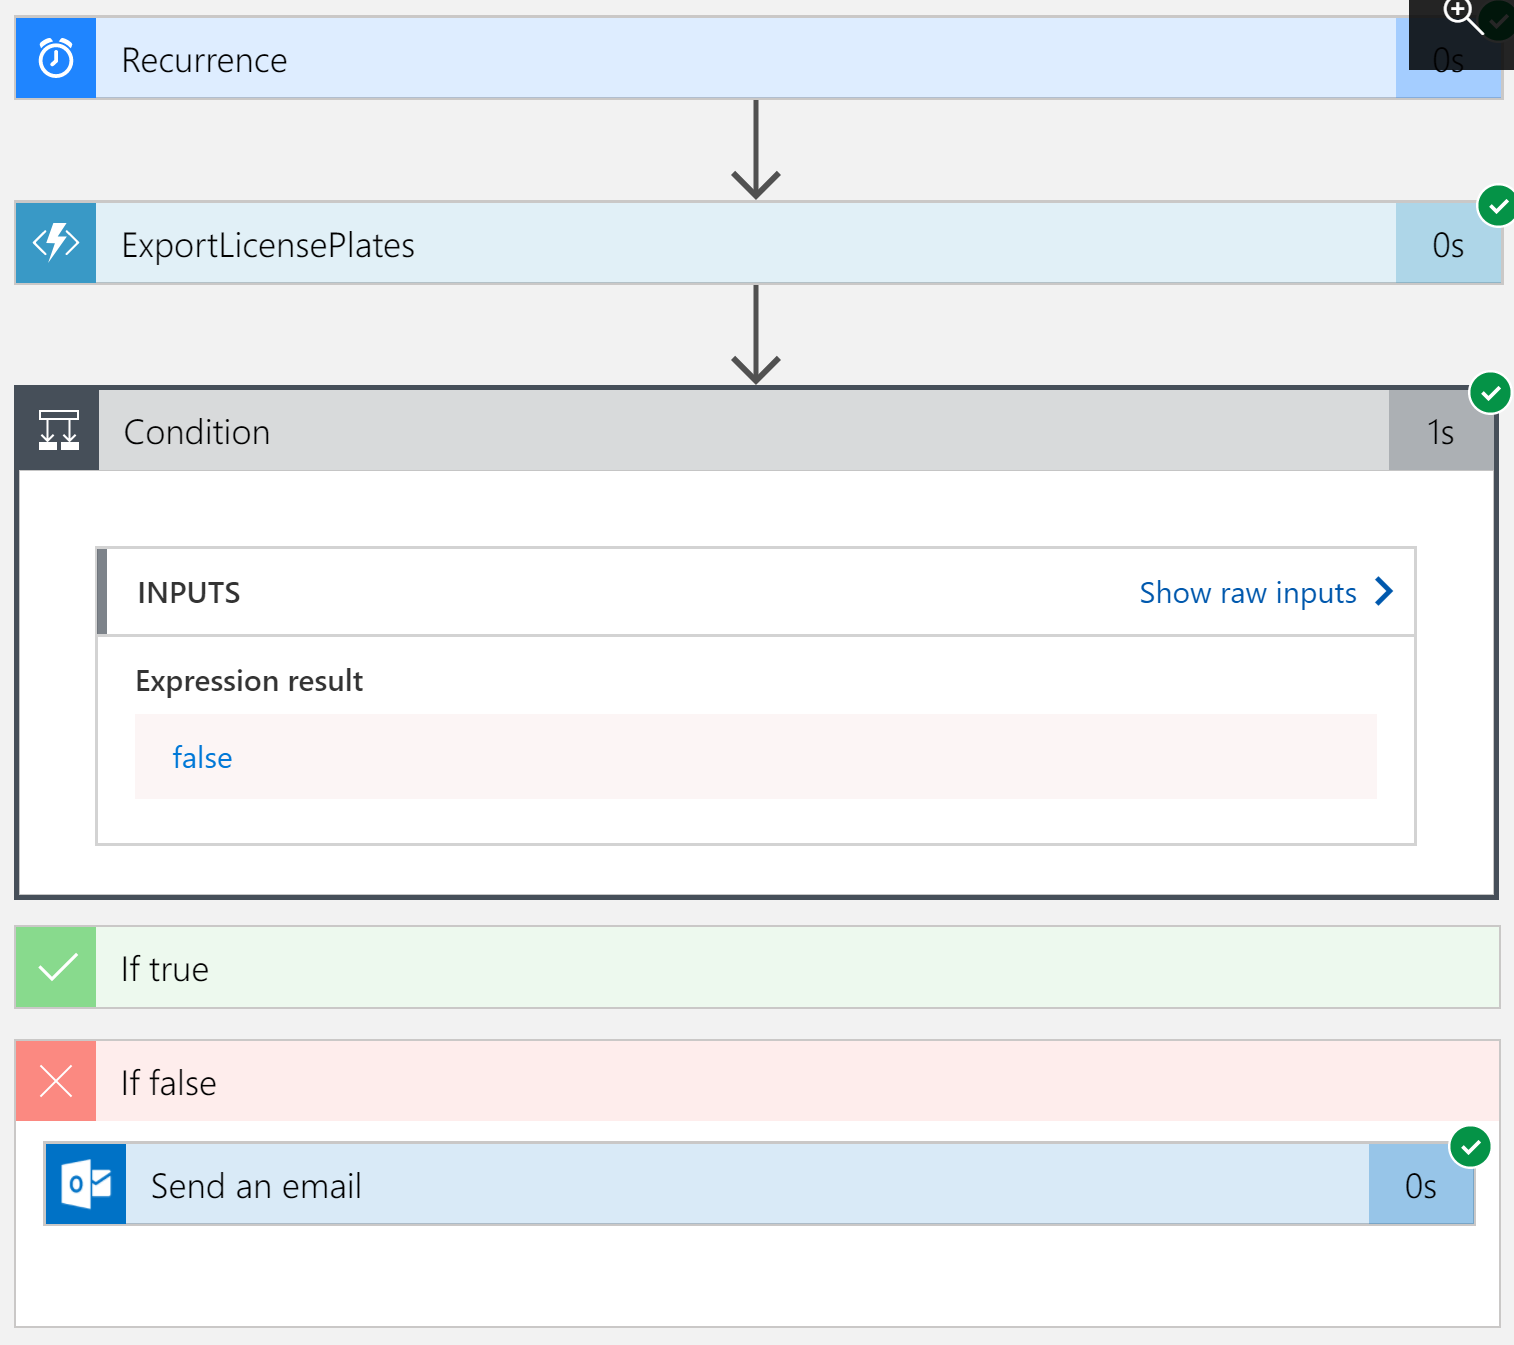
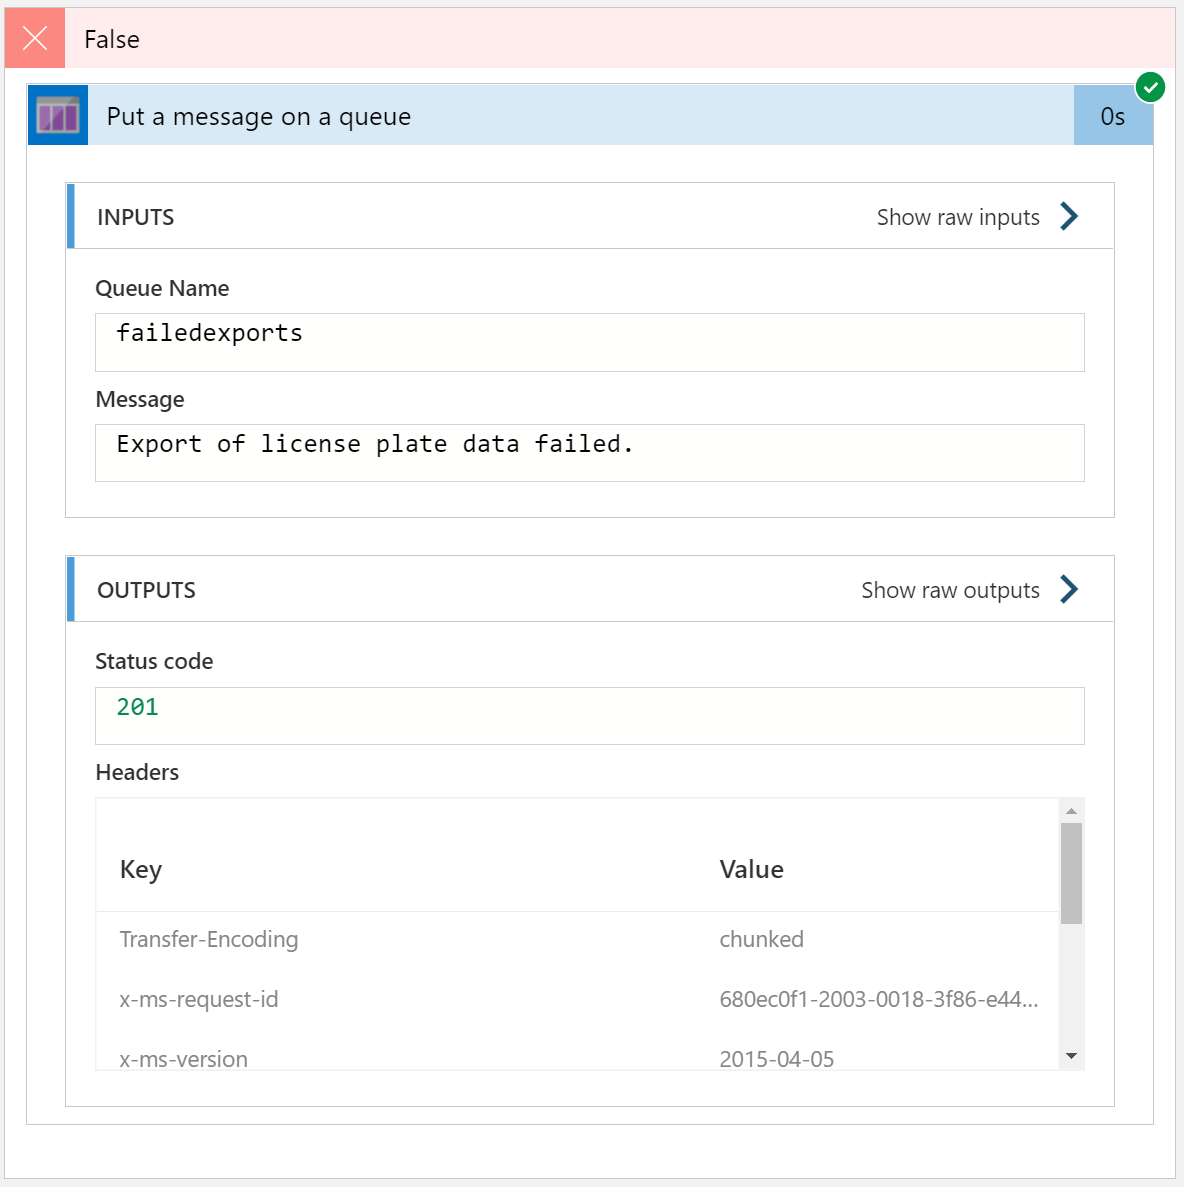
Doc updates; suppress exception in Function.

diff --git a/Hands-on-lab/starter/TollBooth/TollBooth/FindLicensePlateText.cs b/Hands-on-lab/starter/TollBooth/TollBooth/FindLicensePlateText.cs
@@ -50,10 +50,18 @@ namespace TollBooth
             var resiliencyStrategy = DefineAndRetrieveResiliencyStrategy();
 
             // Configure the HttpClient request headers.
-            _client.DefaultRequestHeaders.Clear();
-            _client.DefaultRequestHeaders.Accept.Clear();
-            _client.DefaultRequestHeaders.Add("Ocp-Apim-Subscription-Key", apiKey);
-            _client.DefaultRequestHeaders.Accept.Add(new MediaTypeWithQualityHeaderValue("application/json"));
+            try
+            {
+                _client.DefaultRequestHeaders.Clear();
+                _client.DefaultRequestHeaders.Accept.Clear();
+                _client.DefaultRequestHeaders.Add("Ocp-Apim-Subscription-Key", apiKey);
+                _client.DefaultRequestHeaders.Accept.Add(new MediaTypeWithQualityHeaderValue("application/json"));
+            }
+            catch (System.ArgumentException)
+            {
+                // Non-fatal, most likely threading issue
+                _log.LogWarning("Tried to add duplicate header to HTTP Client.");
+            }
 
             // Assemble the URI for the REST API Call.
             var uri = uriBase + "?" + requestParameters;

diff --git a/Hands-on-lab/HOL step-by-step - Serverless architecture.md b/Hands-on-lab/HOL step-by-step - Serverless architecture.md
@@ -126,8 +126,8 @@ In this exercise, you will provision an Azure Blob Storage Account using the Hot
 |                                            |                                                                                           |
 | ------------------------------------------ | :---------------------------------------------------------------------------------------: |
 | **Description**                            | **Links**                                                                                 |
-| Creating a storage account (blob hot tier) | https://docs.microsoft.com/azure/storage/common/storage-create-storage-account            |
-| Creating a function app                    | https://docs.microsoft.com/azure/azure-functions/functions-create-function-app-portal     |
+| Creating a Storage Account (blob hot tier) | https://docs.microsoft.com/azure/storage/common/storage-create-storage-account            |
+| Creating a Function app                    | https://docs.microsoft.com/azure/azure-functions/functions-create-function-app-portal     |
 | Concepts in Event Grid                     | https://docs.microsoft.com/azure/event-grid/concepts                                      |
 | Creating an Azure Cosmos DB account        | https://docs.microsoft.com/azure/cosmos-db/manage-account                                 |
 
@@ -163,13 +163,17 @@ In this exercise, you will provision an Azure Blob Storage Account using the Hot
 
 6. Paste the value into a text editor, such as Notepad, for later reference.
 
-7. Select **Containers** under **Blob Service** in the menu. Then select the **+ Container** button to add a new container. In the **Name** field, enter **images**, select **Private (no anonymous access)** for the public access level, then select **OK** to save.
+7. Select **Containers** under **Blob Service** in the left menu. Then select the **+ Container** button to add a new container. In the **Name** field, enter **images**, select **Private (no anonymous access)** for the public access level, then select **OK** to save.
 
     ![In the Storage blade, under Settings, Containers is selected. In the Containers blade, the + (add icon) Container button is selected. Below, the Name field displays images, and the Public access level is set to Private (no anonymous access).](media/storage-new-container-images.png 'Storage and Containers blade')
 
 8. Repeat these steps to create a container named **export**.
 
     ![In the Storage blade, under Settings, Containers is selected. In the Containers blade, the + (add icon) Container button is selected. Below, the Name field displays export, and the Public access level is set to Private (no anonymous access).](media/new-container-export.png 'Storage and Containers blade')
+
+9. Select **Queues** under **Queue service** in the left menu. Then select the **+ Queue** button to add a new queue. In the **Queue name** field, enter **failedexports**, then select **OK** to create.
+
+    ![In the Storage blade, under Settings, Containers is selected. In the Containers blade, the + (add icon) Container button is selected. Below, the Name field displays export, and the Public access level is set to Private (no anonymous access).](media/setup-queue.png 'Storage and Containers blade')
 
 ### Task 2: Provision the Function Apps
 
@@ -1091,55 +1095,57 @@ In this exercise, you create a new Azure Logic App for your data export workflow
 
     ![Under Azure Functions, in the search results list, Azure Functions (TollBoothFunctionApp) is selected.](media/logic-app-function-app-action.png 'Logic App Designer Azure Functions section')
 
-11. Select the **ExportLicensePlates** function from the list.
+11. Select the **ExportLicensePlates** Function from the list.
 
     ![Under Azure Functions, under Actions (2), Azure Functions (ExportLicensePlates) is selected.](media/logic-app-select-export-function.png 'Logic App Designer Azure Functions section')
 
-12. This function does not require any parameters that need to be sent when it gets called. Select **+ New step**, then search for **condition**. Select the **Condition** Control option from the Actions search result.
+12. This Function does not require any parameters. Select **+ New step**, then search for **condition**. Select the **Condition** Control option from the Actions search result.
 
     ![In the logic app designer, in the ExportLicensePlates section, the parameter field is left blank. In the Choose an action box, condition is entered as the search term and the Condition Control item is selected from the Actions list.](media/logicapp-add-condition.png 'Logic App Designer ExportLicensePlates section')
 
 13. For the **value** field, select the **Status code** parameter. Make sure the operator is set to **is equal to**, then enter **200** in the second value field.
 
-    > **Note**: This evaluates the status code returned from the ExportLicensePlates function, which will return a 200 code when license plates are found and exported. Otherwise, it sends a 204 (NoContent) status code when no license plates were discovered that need to be exported. We will conditionally send an email if any response other than 200 is returned.
+    > **Note**: This evaluates the HTTP status code returned from the ExportLicensePlates Function, which will return a 200 (OK) code when license plates are found and exported. Otherwise, it sends a 204 (NoContent) status code when no license plates were discovered that need to be exported. We will conditionally put a message on a queue if any response other than 200 is returned.
 
     ![The first Condition field displays Status code. The second, drop-down menu field displays is equal to, and the third field is set to 200.](media/logicapp-condition.png 'Condition fields')
 
-14. We will ignore the If true condition because we don't want to perform an action if the license plates are successfully exported. Select **Add an action** within the **If false** condition block.
+14. We will ignore the True condition because we don't want to perform an action if the license plates are successfully exported. Select **Add an action** within the **False** condition block.
 
     ![Under the Conditions field is an If true (green checkmark) section, and an if false (red x) section. In the If false section, the Add an action button is selected.](media/logicapp-condition-false-add.png 'Logic App Designer Condition fields if true/false ')
 
-15. Enter **Send an email** in the filter box, then select the **Send an email (V2)** action for Office 365 Outlook.
+15. Enter **Azure Queues** in the filter box, then select the **Put a message on a queue** action.
 
-    ![In the Choose an action box, send an email is entered as the search term. From the Actions list, Office 365 Outlook (end an email (V2) item is selected.](media/logicapp-send-email.png 'Office 365 Outlook Actions list')
+    ![In the Choose an action box, Azure Queues is entered as the search term. From the Actions list, Put a message on a queue is selected.](media/logicapp-send-message.png 'Azure Queues put a message on queue')
 
-16. Select **Sign in** and sign into your Office 365 Outlook account.
+16. In the Put a message on a queue Action, provide the following values:
 
-    ![In the Office 365 Outlook - Send an email box, the Sign in button is selected.](media/image93.png 'Office 365 Outlook Sign in prompt')
+    a. For **Connection Name** enter **FailedExportQueueConnection**.
 
-17. In the Send an email form, provide the following values:
+    b. For **Storage Account** select the Storage Account from Exercise 1, Task 1 in which you created the **failedexports** queue.
 
-    a. Enter your email address in the **To** box.
+    c. Select **Create**.
 
-    b. Provide a **Subject**, such as **Toll Booth license plate export failed**.
+    ![In the Put a message on a queue Action, fields are set to the previously defined values.](media/logic-app-storage-connection.png 'Logic App Designer , Storage Connection fields')
 
-    c. Enter a message into the **Body**, and select the **Status code** from the ExportLicensePlates function so that it is added to the email body.
+17. The Action will change once connected. For **Queue Name** select **failedexports**. Enter an appropriate message into the **Message field**
 
-    ![In the Send an email box, fields are set to the previously defined values.](media/logicapp-send-email-form.png 'Logic App Designer , Send an email fields')
+    ![In the Put a message on a queue Action, fields are set to the previously defined values.](media/logic-app-message-queue-message.png 'Logic App Designer , Queue message fields')
 
-18. Select **Save** in the tool bar to save your Logic App.
+    > **Note:** if you don't see 'failedexports' as an option it may be that you selected the wrong storage account. You can use **Change connection** to connect to the right account.
 
-19. Select **Run** to execute the Logic App. You should start receiving email alerts because the license plate data is not being exported. This is because we need to finish making changes to the ExportLicensePlates function so that it can extract the license plate data from Azure Cosmos DB, generate the CSV file, and upload it to Blob storage.
+18. Select **Save** at the top left in the editor tool bar to save your Logic App.
 
-    ![The Run button is selected on the Logic Apps Designer blade toolbar.](media/logicapp-start.png 'Logic Apps Designer blade')
+19. Select **Run** to execute the Logic App.
+
+    ![The Run button is selected on the Logic Apps Designer blade toolbar.](media/logicapp-start.png 'Logic Apps - Run')
 
 20. While in the Logic Apps Designer, you will see the run result of each step of your workflow. A green checkmark is placed next to each step that successfully executed, showing the execution time to complete. This can be used to see how each step is working, and you can select the executed step and see the raw output.
 
     ![In the Logic App Designer, green check marks display next to Recurrence, ExportLicensePlates, Condition, and Send an email steps of the logic app.](media/image96.png 'Logic App Designer ')
 
-21. The Logic App will continue to run in the background, executing every 15 minutes (or whichever interval you set) until you disable it. To disable the app, go to the **Overview** blade for the Logic App and select the **Disable** button on the taskbar.
+21. In your browser navigate to the Azure Storage Account that contains the queue you are using and then review the new message that was published due to the failed export.
 
-    ![The Disable button is selected on the TollBoothLogic Logic app blade toolbar menu.](media/image97.png 'TollBoothLogic blade')
+    ![In the Azure Portal with a Storage Queue open, showing a message on the queue.](media/storage-queue-failed-message.png 'Azure Storage Queue showing message in queue')
 
 ## Exercise 7: Complete ExportLicensePlates Function App
 
@@ -1197,15 +1203,13 @@ In this exercise, finsish adding code to your Function App and push code to GitH
 
 With the latest Function App code changes in place, re-run your Logic App and verify that the files are successfully exported.
 
+>**Note:** if wish to run through these Exercises multiple times you will need to upload new license plate files using the `UploadImages` application from Exercise 4, Task 1.
+
 ### Task 1: Run the Logic App
 
 1. Open your **ServerlessArchitecture** resource group in the Azure portal, then select your Logic App.
 
-2. From the **Overview** blade, select **Enable**.
-
-    ![In the TollBoothLogic Logic app blade, Overview is selected in the left menu, and the Enable enable button is selected in the right pane.](media/image113.png 'TollBoothLogic blade')
-
-3. Now select **Run Trigger**, then select **Recurrence** to immediately execute your workflow.
+3. Select **Run Trigger**, then select **Recurrence** to immediately execute your workflow.
 
     ![In the TollBoothLogic Logic app blade, Run Trigger and Recurrence are selected.](media/image114.png 'TollBoothLogic blade')
 
